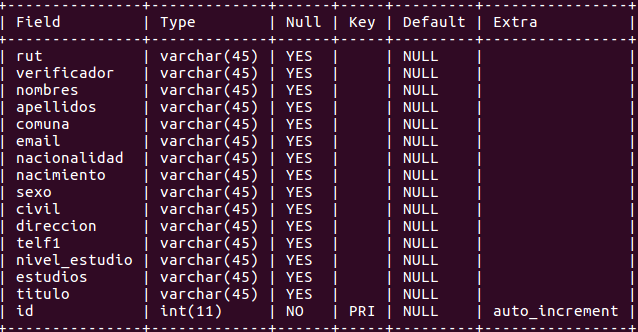
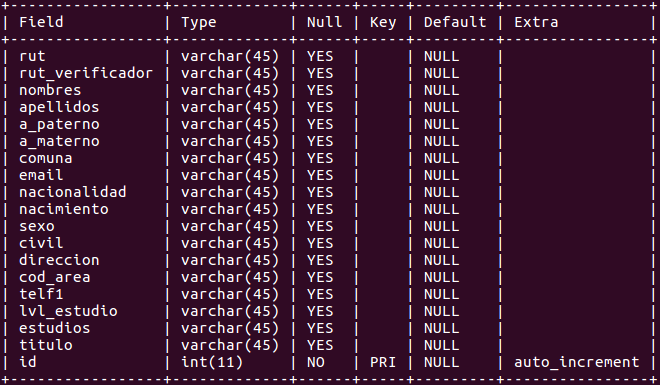
listado archivos y ;

Changed region(s): [[0.0, 0.0, 1.0, 1.0]]

diff --git a/csv2sql.php b/csv2sql.php
@@ -8,17 +8,54 @@
 <div class="container">
   <div class="row">
     <h1> SCRIPT CSV a Mysql </h1>
-    <p> This Php Script Will Import very large CSV files to MYSQL database in a minute</p>
+    <p> PHP para importar archivos CSV a MySql</p>
     <img src="BD.png" alt="" />
     </br>
+    <div class="col-md-12" style="margin-top:2em">
+      <table class='table table-hover table-bordered'>
+        <thead>
+          <tr>
+            <th>Nombre del archivo: </th>
+            <th>Columnas</th>
+          </tr>
+        </thead>
+        <tbody>
+
+
+<?php
+  $directorio = opendir("/home/fcabanasm/Escritorio/dev/PHP_SERVER/csv/");
+  while ($archivo = readdir($directorio)) {
+    if ($archivo != "." && $archivo != "..") {
+          echo "<tr><td><a style='font-size: 20px;' href='/csv/$archivo' target='_blank'>".$archivo."</a></td>";
+
+            $file = new SplFileObject("csv/".$archivo);
+            echo "<td>".$file->fgets()."</td>";
+            $file = null;
+
+          echo "</tr>";
+}
+      }
+?>
+    </tbody>
+    </table>
+    </div>
     <form class="form-horizontal"action="csv2sql.php" method="post">
       <div class="form-group">
             <label for="table" class="control-label ">Columnas</label>
         <div class="">
-            <input type="text" class="form-control" name="cols" id="cols" value="@,@,nombres,rut,verificador,@,@,nacionalidad,nacimiento,sexo,civil,direccion,telf1,email,nivel_estudio,estudios,titulo">
+            <input type="text" class="form-control" name="cols" id="cols" value="@,@,nombres,rut,rut_verificador,@,@,nacionalidad,fecha_nacimiento,sexo,civil,direccion,telf1,email,lvl_estudio,estudios,titulo">
         </div>
         @ para ignorar columna
       </div>
+      <div class="form-group">
+            <label for="csvfile" class="control-label ">Nombre del archivo</label>
+        <div class="">
+            <input type="name" class="form-control" name="csv" id="csv" value="test.csv">
+        </div>
+        eg. MYDATA.csv
+        </div>
+      <div class="col-md-12">
+        <div class="col-md-6">
       <div class="form-group">
             <label for="table" class="control-label ">Header</label>
         <div class="">
@@ -26,55 +63,58 @@
           <input type="radio" name="header" id="header" value="no"> No<br>
         </div>
       </div>
+      </div>
+      <div class="col-md-6">
+      <div class="form-group">
+            <label for="table" class="control-label ">Separador</label>
+        <div class="">
+          <input type="radio" name="separador" id="separador" value="," checked="true"> , (coma)<br>
+          <input type="radio" name="separador" id="separador" value=";"> ; (punto y coma)<br>
+        </div>
+      </div>
+      </div>
+      </div>
       <div class="col-md-6">
         <div class="form-group">
-            <label for="mysql" class="control-label ">Host name</label>
+            <label for="mysql" class="control-label ">Host</label>
     		<div class="">
             <input type="text" class="form-control" name="mysql" id="mysql" placeholder="" value="localhost">
     		</div>
         </div>
     	<div class="form-group">
-            <label for="username" class="control-label ">Username</label>
+            <label for="username" class="control-label ">Usuario</label>
     		<div class="">
             <input type="text" class="form-control" name="username" id="username" placeholder="" value="root">
     		</div>
         </div>
     	<div class="form-group">
-            <label for="password" class="control-label ">Password</label>
+            <label for="password" class="control-label ">Contraseña</label>
     		<div class="">
-            <input type="password" class="form-control" name="password" id="password" placeholder="" value="597153">
+            <input type="password" class="form-control" name="password" id="password" placeholder="" value="europa1935">
     		</div>
         </div>
       </div>
       <div class="col-md-6">
         <div class="form-group">
-              <label for="db" class="control-label ">Database name</label>
+              <label for="db" class="control-label ">Base de datos</label>
       		<div class="">
               <input type="text" class="form-control" name="db" id="db" placeholder="" value="big_data">
       		</div>
           </div>
       	<div class="form-group">
-              <label for="table" class="control-label ">table name</label>
+              <label for="table" class="control-label ">Tabla</label>
       		<div class="">
-              <input type="name" class="form-control" name="table" id="table" value="data_table">
+              <input type="name" class="form-control" name="table" id="table" value="personas">
       		</div>
           </div>
-      	<div class="form-group">
-              <label for="csvfile" class="control-label ">Name of the file</label>
-      		<div class="">
-              <input type="name" class="form-control" name="csv" id="csv" value="test.csv">
-      		</div>
-      		eg. MYDATA.csv
-          </div>
+
       	<div class="form-group">
       	<label for="login" class="control-label "></label>
           <div class="">
-          <button type="submit" class="btn btn-primary">Upload</button>
+          <button type="submit" class="btn btn-primary">Subir</button>
       	</div>
       	</div>
       </div>
-
-
     </form>
     </div>
   </div>
@@ -111,14 +151,15 @@ $count1=(int)$r1['count'];
 // for more information about the query http://dev.mysql.com/doc/refman/5.1/en/load-data.html
 $cols=$_POST['cols'];
 $header=$_POST['header'];
+$separador=$_POST['separador'];
 #$cols = preg_split("/[;,]+/", $cols);
 $cols = preg_replace('/\s+/', '', $cols);
 $head = '('.$cols.')';
 $head = str_ireplace("@","@q",$head);
 
-$sql2 = "LOAD DATA LOCAL INFILE '".$file. "'
+$sql2 = "LOAD DATA LOCAL INFILE 'csv/".$file. "'
       INTO TABLE `".$table."`
-      FIELDS TERMINATED by ','
+      FIELDS TERMINATED by '$separador'
       ENCLOSED BY '\"'".
       ($header == "si" ? '
         IGNORE 1 LINES': '')."
@@ -157,16 +198,4 @@ echo "Mysql Server address/Host name ,Username , Database name ,Table name , Fil
 }
 
 ?>
-<h3> Instructions </h3>
-1.  Keep this php file and Your csv file in one folder <br>
-2.  Create a table in your mysql database to which you want to import <br>
-3.  Open the php file from your localhost server <br>
-4.  Enter all the fields  <br>
-5.  click on upload button  </p>
-
-<h3> Facing Problems ? Some of the reasons can be the ones shown below </h3>
-1) Check if the table to which you want to import is created and the datatype of each column matches with the data in csv<br>
-2) If fields in your csv are not separated by commas go to Line 117 of php file and change the query<br>
-3) If each tuple in your csv are not one below other(i.e not seperated by a new line) got line 117 of php file and change the query<br>
-
 </html>
